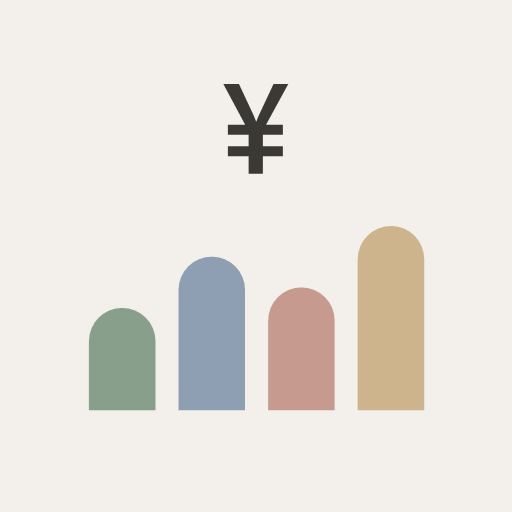
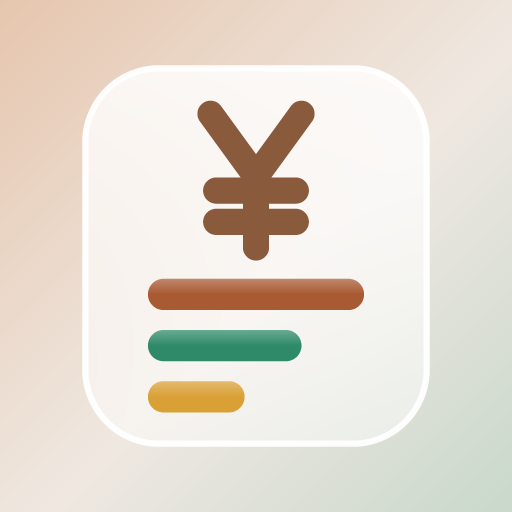
V3: ホーム画面のアイコンをリキッドグラスのデザインに合わせて作り直す

diff --git a/v3/sw.js b/v3/sw.js
@@ -1,1 +1,1 @@
-if(!self.define){let e,i={};const n=(n,s)=>(n=new URL(n+".js",s).href,i[n]||new Promise(i=>{if("document"in self){const e=document.createElement("script");e.src=n,e.onload=i,document.head.appendChild(e)}else e=n,importScripts(n),i()}).then(()=>{let e=i[n];if(!e)throw new Error(`Module ${n} didn’t register its module`);return e}));self.define=(s,d)=>{const o=e||("document"in self?document.currentScript.src:"")||location.href;if(i[o])return;let r={};const f=e=>n(e,o),t={module:{uri:o},exports:r,require:f};i[o]=Promise.all(s.map(e=>t[e]||f(e))).then(e=>(d(...e),r))}}define(["./workbox-2fbc6a65"],function(e){"use strict";self.addEventListener("message",e=>{e.data&&"SKIP_WAITING"===e.data.type&&self.skipWaiting()}),e.precacheAndRoute([{url:"index.html",revision:"92eb8d2563e1ffc1bc9fbda23b2b1b82"},{url:"icon-512.png",revision:"5570cbe3d7bdef8d9d1e5392047f5f64"},{url:"icon-192.png",revision:"2e83956384298843d8e95901869c9dd7"},{url:"icon-180.png",revision:"b3e471d873ff67febe029f57edff5fad"},{url:"assets/workbox-window.prod.es5-Bd17z0YL.js",revision:null},{url:"assets/index-BtUMt9Hx.css",revision:null},{url:"assets/index-Bm65tedV.js",revision:null},{url:"icon-180.png",revision:"b3e471d873ff67febe029f57edff5fad"},{url:"icon-192.png",revision:"2e83956384298843d8e95901869c9dd7"},{url:"icon-512.png",revision:"5570cbe3d7bdef8d9d1e5392047f5f64"},{url:"manifest.webmanifest",revision:"d8d89373757c413c73fad50dbd6aaef8"}],{}),e.cleanupOutdatedCaches(),e.registerRoute(new e.NavigationRoute(e.createHandlerBoundToURL("/kakeibo/v3/index.html")))});
+if(!self.define){let e,i={};const n=(n,s)=>(n=new URL(n+".js",s).href,i[n]||new Promise(i=>{if("document"in self){const e=document.createElement("script");e.src=n,e.onload=i,document.head.appendChild(e)}else e=n,importScripts(n),i()}).then(()=>{let e=i[n];if(!e)throw new Error(`Module ${n} didn’t register its module`);return e}));self.define=(s,o)=>{const r=e||("document"in self?document.currentScript.src:"")||location.href;if(i[r])return;let c={};const t=e=>n(e,r),d={module:{uri:r},exports:c,require:t};i[r]=Promise.all(s.map(e=>d[e]||t(e))).then(e=>(o(...e),c))}}define(["./workbox-2fbc6a65"],function(e){"use strict";self.addEventListener("message",e=>{e.data&&"SKIP_WAITING"===e.data.type&&self.skipWaiting()}),e.precacheAndRoute([{url:"index.html",revision:"92eb8d2563e1ffc1bc9fbda23b2b1b82"},{url:"icon-512.png",revision:"a6e24bef66c9973df68867f60c52be75"},{url:"icon-192.png",revision:"96a38d280aa130defaacf46449578446"},{url:"icon-180.png",revision:"cc5614c0d71848c2f59676501bb403a6"},{url:"assets/workbox-window.prod.es5-Bd17z0YL.js",revision:null},{url:"assets/index-BtUMt9Hx.css",revision:null},{url:"assets/index-Bm65tedV.js",revision:null},{url:"icon-180.png",revision:"cc5614c0d71848c2f59676501bb403a6"},{url:"icon-192.png",revision:"96a38d280aa130defaacf46449578446"},{url:"icon-512.png",revision:"a6e24bef66c9973df68867f60c52be75"},{url:"manifest.webmanifest",revision:"d8d89373757c413c73fad50dbd6aaef8"}],{}),e.cleanupOutdatedCaches(),e.registerRoute(new e.NavigationRoute(e.createHandlerBoundToURL("/kakeibo/v3/index.html")))});
